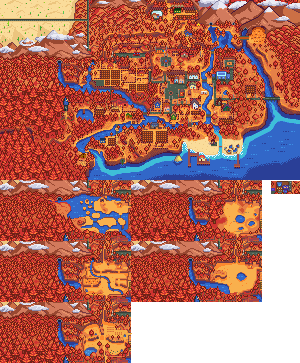
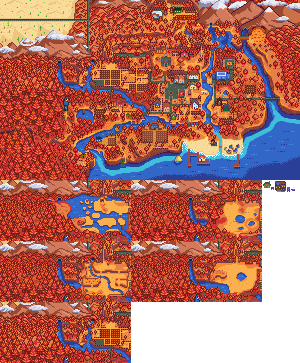
update maps

diff --git a/NPCMapLocations/ui/ModMapPage.cs b/NPCMapLocations/ui/ModMapPage.cs
@@ -319,21 +319,14 @@ namespace NPCMapLocations
           b.Draw(ModMain.Map, new Vector2(mapX, mY + 172), new Rectangle(0, 302, 131, 61), Color.White, 0f, Vector2.Zero, 4f, SpriteEffects.None, 0.861f);
           break;
       }
-      //if (drawPamHouseUpgrade)
-      //{
-        var houseLoc = new Vector2(ModConstants.MapVectors["Trailer_Big"][0].MapX, ModConstants.MapVectors["Trailer_Big"][0].MapY);
-        b.Draw(ModMain.Map, new Vector2(mapX + houseLoc.X, mapY + houseLoc.Y), new Rectangle(263, 181, 8, 8), Color.White, 0f, Vector2.Zero, 4f, SpriteEffects.None, 0.861f);
-      //}
-      //if (drawMovieTheater)
-      //{
-        var movieLoc = new Vector2(ModConstants.MapVectors["JojaMart"][0].MapX, ModConstants.MapVectors["JojaMart"][0].MapY);
-        b.Draw(ModMain.Map, new Vector2(mapX + movieLoc.X, mapY + movieLoc.Y), new Rectangle(271, 181, 29, 13), Color.White, 0f, Vector2.Zero, 4f, SpriteEffects.None, 0.861f);
-      //}
-      //if (drawMovieTheaterJoja)
-      //{
-        var jojaLoc = new Vector2(ModConstants.MapVectors["JojaMart"][0].MapX, ModConstants.MapVectors["JojaMart"][0].MapY);
-        b.Draw(ModMain.Map, new Vector2(mapX + jojaLoc.X, mapY + jojaLoc.Y), new Rectangle(276, 181, 13, 13), Color.White, 0f, Vector2.Zero, 4f, SpriteEffects.None, 0.861f);
-      //}
+      if (drawPamHouseUpgrade)
+      {
+        b.Draw(ModMain.Map, new Vector2(200 * Game1.pixelZoom, 88 * Game1.pixelZoom), new Rectangle(263, 181, 8, 8), Color.White, 0f, Vector2.Zero, 4f, SpriteEffects.None, 0.861f);
+      }
+      if (drawMovieTheater || drawMovieTheaterJoja)
+      {
+        b.Draw(ModMain.Map, new Vector2(216 * Game1.pixelZoom, 70 * Game1.pixelZoom), new Rectangle(275, 181, 15, 11), Color.White, 0f, Vector2.Zero, 4f, SpriteEffects.None, 0.861f);
+      }
 
       var player = Game1.player;
 			int x = player.getTileX();

diff --git a/NPCMapLocations/ModConstants.cs b/NPCMapLocations/ModConstants.cs
@@ -347,12 +347,12 @@ public static class ModConstants
 //          new MapVector(878, 405)
 //        }
 //      },
-      {
-        "JojaMart", new MapVector[]
-        {
-          new MapVector(885, 302)
-        }
-      },
+//     {
+//        "JojaMart", new MapVector[]
+//        {
+//          new MapVector(885, 302)
+//        }
+//      },
 //      {
 //        "SamHouse", new MapVector[]
 //        {
@@ -365,12 +365,12 @@ public static class ModConstants
 //          new MapVector(813, 365)
 //        }
 //      },
-        {
-          "Trailer_Big", new MapVector[]
-          {
-            new MapVector(810, 365)
-          }
-        },
+//        {
+//          "Trailer_Big", new MapVector[]
+//          {
+//            new MapVector(810, 365)
+//          }
+//        },
 //      {
 //        "ManorHouse", new MapVector[]
 //        {
